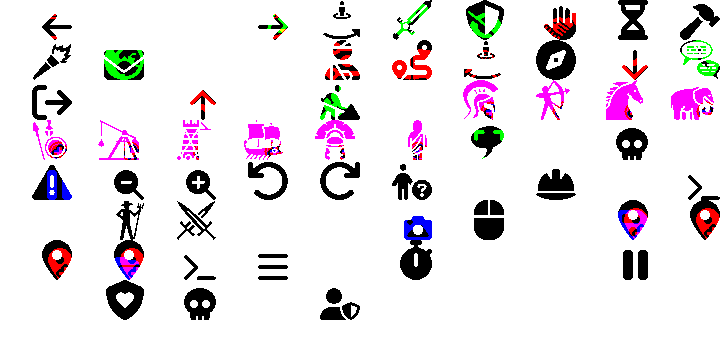
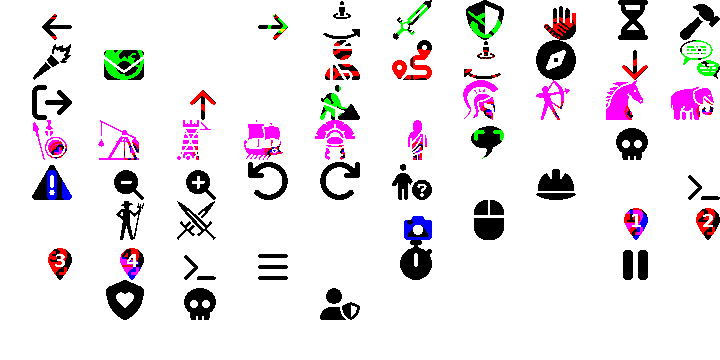
0 A.D.: camera positions show their number
F5 to F8 jump to camera positions 1 to 4 and Ctrl+F5 to F8 set them, but
all eight keys showed the same pin. Each pin now has its number cut out
of the head (DejaVu Sans Bold, the font of the C&C bookmark digits),
after its own hole is filled. On Ctrl the pin moves up and left by 5 px,
so the plus has its own corner and does not clip the digit.

jump.png and jumpset.png are replaced by jump1..4.png and
jumpset1..4.png, written by fetch_icons.jump_pins().

Claude-Session: https://claude.ai/code/session_01Hs9SNTuYKh6YvuVcPf5MKZ

diff --git a/polyhost/res/overlay_sources/zeroad/fetch_icons.py b/polyhost/res/overlay_sources/zeroad/fetch_icons.py
@@ -67,7 +67,6 @@ ICONS = {
     "scrolldown": "fa:arrow-down",
     "scrollleft": "fa:arrow-left",
     "scrollright": "fa:arrow-right",
-    "jump": "fa:location-dot",
     # Selection
     "idlebuilder": "fa:helmet-safety",
     "idleworker": "gi:delapouite/farmer",
@@ -117,10 +116,16 @@ GROUP_UNITS = {
     "0": "delapouite/roman-toga",
 }
 
+# The camera-position pins (F5 to F8). JUMP_HEAD_CENTRE is the centre of the
+# round head below the pin's top, in px at the 24 x 32 pin size.
+JUMP_PIN = "fa:location-dot"
+JUMP_POSITIONS = (1, 2, 3, 4)
+JUMP_DIGIT_PX, JUMP_HEAD_CENTRE, JUMPSET_SHIFT = 13, 12, 5
+
 # Key area of each icon, from zeroad.yaml; the default is 40 x 40. The F-key
 # areas use the legend widths measured for Age of Empires II.
 SIZES = {"screenshot": (34, 40), "bigscreenshot": (34, 40), "mousegrab": (34, 40),
-         "quicksave": (34, 40), "quickload": (34, 40), "jump": (34, 40)}
+         "quicksave": (34, 40), "quickload": (34, 40)}
 # Solid icons that read heavier than the rest: drawn in a smaller box.
 INK = {"quicksave": (30, 30), "quickload": (30, 30), "chat": (34, 34),
        "zoomin": (30, 30), "zoomout": (30, 30), "screenshot": (28, 28),
@@ -176,12 +181,58 @@ def _with_minus(mask, size=13, bar=3):
     return (mask & ~program_mark.dilate(p, aoe2.GROUP_SEAM)) | p
 
 
-def jump_set(out: Path) -> None:
-    """jumpset.png (Ctrl+F5 to F8: set a camera position): the jump pin with
-    the Ctrl plus."""
-    pin = _flat(out / "_jump.png", (34, 40), (24, 32))
-    cnc._save_mask(aoe2._with_plus(pin), out / "jumpset.png")
-    print("  jumpset.png  <- fa:location-dot + a plus")
+def _fill_holes(mask):
+    """`mask` with every unlit area that does not touch the border lit."""
+    import numpy as np
+    outside = np.zeros_like(mask)
+    outside[0, :] = outside[-1, :] = True
+    outside[:, 0] = outside[:, -1] = True
+    outside &= ~mask
+    while True:
+        grown = program_mark.dilate(outside, 1) & ~mask
+        if (grown == outside).all():
+            return ~outside
+        outside = grown
+
+
+def _digit(text: str, height: int):
+    """`text` in DejaVu Sans Bold as a 1-bit mask at most `height` px tall."""
+    import numpy as np
+    from PIL import Image, ImageDraw, ImageFont
+    for px in range(40, 5, -1):
+        f = ImageFont.truetype(str(cnc._font(cnc.DIGIT_FONT_URL)), px)
+        left, top, right, bottom = f.getbbox(text)
+        im = Image.new("L", (right - left + 4, bottom - top + 4), 0)
+        ImageDraw.Draw(im).text((2 - left, 2 - top), text, font=f, fill=255)
+        g = np.array(im) > 110
+        ys, xs = np.nonzero(g)
+        g = g[ys.min():ys.max() + 1, xs.min():xs.max() + 1]
+        if g.shape[0] <= height:
+            return g
+    raise ValueError(f"no size of the digit font fits {height} px")
+
+
+def jump_pins(out: Path) -> None:
+    """jump<N>.png (F5 to F8: jump to camera position N) and jumpset<N>.png
+    (Ctrl+F5 to F8: set it): the location pin with N cut out of its head. The
+    pin's own hole is filled first, so the digit has the whole head. For Ctrl
+    the pin moves up and left by JUMPSET_SHIFT px, so the plus has its own
+    corner and does not clip the digit."""
+    import numpy as np
+    for n in JUMP_POSITIONS:
+        pin = _fill_holes(_flat(out / "_jump.png", (34, 40), (24, 32)))
+        ys, xs = np.nonzero(pin)
+        g = _digit(str(n), JUMP_DIGIT_PX)
+        cy = ys.min() + JUMP_HEAD_CENTRE
+        cx = (xs.min() + xs.max() + 1) // 2
+        y0, x0 = cy - g.shape[0] // 2, cx - g.shape[1] // 2
+        pin[y0:y0 + g.shape[0], x0:x0 + g.shape[1]] &= ~g
+        cnc._save_mask(pin, out / f"jump{n}.png")
+        k = JUMPSET_SHIFT
+        moved = np.zeros_like(pin)
+        moved[:-k, :-k] = pin[k:, k:]
+        cnc._save_mask(aoe2._with_plus(moved), out / f"jumpset{n}.png")
+        print(f"  jump{n}.png, jumpset{n}.png  <- {JUMP_PIN} with a {n} (+ a plus)")
 
 
 def speed_icons(out: Path) -> None:
@@ -230,12 +281,12 @@ def program(out: Path) -> None:
 
 def main() -> int:
     out = Path(__file__).resolve().parent / "icons"
-    parts = {"_person": ROTATE_PERSON, "_jump": ICONS["jump"],
+    parts = {"_person": ROTATE_PERSON, "_jump": JUMP_PIN,
              **{f"_{b}": s for b, s in SPEED_BASES.items()}}
     cnc.render({**ICONS, **parts}, out)
     game_icons.render({f"_unit{d}": n for d, n in GROUP_UNITS.items()}, out, render_px=256)
     flat_icons(out)
-    jump_set(out)
+    jump_pins(out)
     speed_icons(out)
     groups(out)
     wc3.rotate_icons(out)

diff --git a/polyhost/res/overlay_sources/zeroad/SOURCES.md b/polyhost/res/overlay_sources/zeroad/SOURCES.md
@@ -137,7 +137,7 @@ Licence texts for the icon and font licences named in this file:
 | `scrolldown.png` | Font Awesome Free 6.5.2 `arrow-down` (solid) | Fonticons, Inc. | CC BY 4.0 |
 | `scrollleft.png` | Font Awesome Free 6.5.2 `arrow-left` (solid) | Fonticons, Inc. | CC BY 4.0 |
 | `scrollright.png` | Font Awesome Free 6.5.2 `arrow-right` (solid) | Fonticons, Inc. | CC BY 4.0 |
-| `jump.png` | Font Awesome Free 6.5.2 `location-dot` (solid) | Fonticons, Inc. | CC BY 4.0 |
+| `jump1.png` … `jump4.png` | Font Awesome Free 6.5.2 `location-dot` (solid), with the position number cut out of the head by `fetch_icons.py` in DejaVu Sans Bold (the copy bundled with matplotlib v3.9.2, pinned commit) | Fonticons, Inc.; the digits Bitstream | CC BY 4.0; the digits Bitstream Vera |
 | `idlebuilder.png` | Font Awesome Free 6.5.2 `helmet-safety` (solid) | Fonticons, Inc. | CC BY 4.0 |
 | `idleworker.png` | game-icons.net `delapouite/farmer` | delapouite | CC BY 3.0 |
 | `idlewarrior.png` | game-icons.net `lorc/crossed-swords` | lorc | CC BY 3.0 |
@@ -160,7 +160,7 @@ Licence texts for the icon and font licences named in this file:
 | `chat.png` | game-icons.net `delapouite/chat-bubble` | delapouite | CC BY 3.0 |
 | `teamchat.png` | game-icons.net `lorc/conversation` | lorc | CC BY 3.0 |
 | `privatechat.png` | Font Awesome Free 6.5.2 `envelope` (solid) | Fonticons, Inc. | CC BY 4.0 |
-| `jumpset.png` | Font Awesome Free 6.5.2 `location-dot` (solid), with a plus drawn by `fetch_icons.py` | Fonticons, Inc. | CC BY 4.0 |
+| `jumpset1.png` … `jumpset4.png` | Font Awesome Free 6.5.2 `location-dot` (solid), with the position number (DejaVu Sans Bold, as above) and a plus drawn by `fetch_icons.py` | Fonticons, Inc.; the digits Bitstream | CC BY 4.0; the digits Bitstream Vera |
 | `scrollfast.png`, `scrollslow.png` | Font Awesome Free 6.5.2 `arrows-up-down-left-right` (solid), with a plus or a minus | Fonticons, Inc. | CC BY 4.0 |
 | `rotatefast.png`, `rotateslow.png` | Font Awesome Free 6.5.2 `rotate` (solid), with a plus or a minus | Fonticons, Inc. | CC BY 4.0 |
 | `zoomfast.png`, `zoomslow.png` | Font Awesome Free 6.5.2 `magnifying-glass` (solid), with a plus or a minus | Fonticons, Inc. | CC BY 4.0 |
